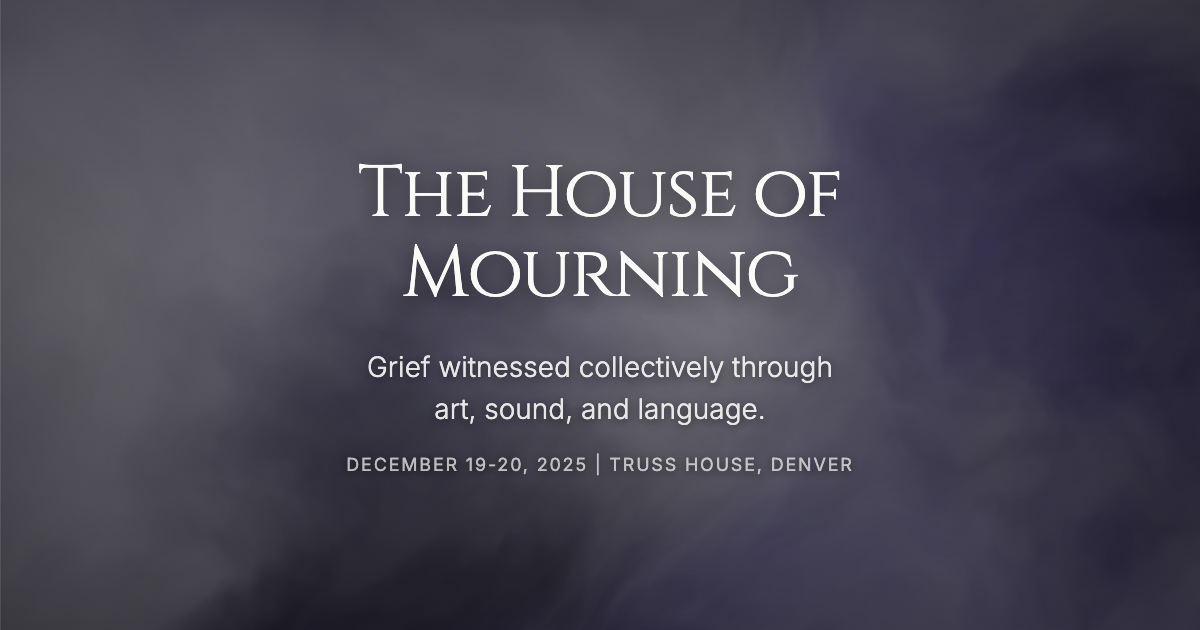
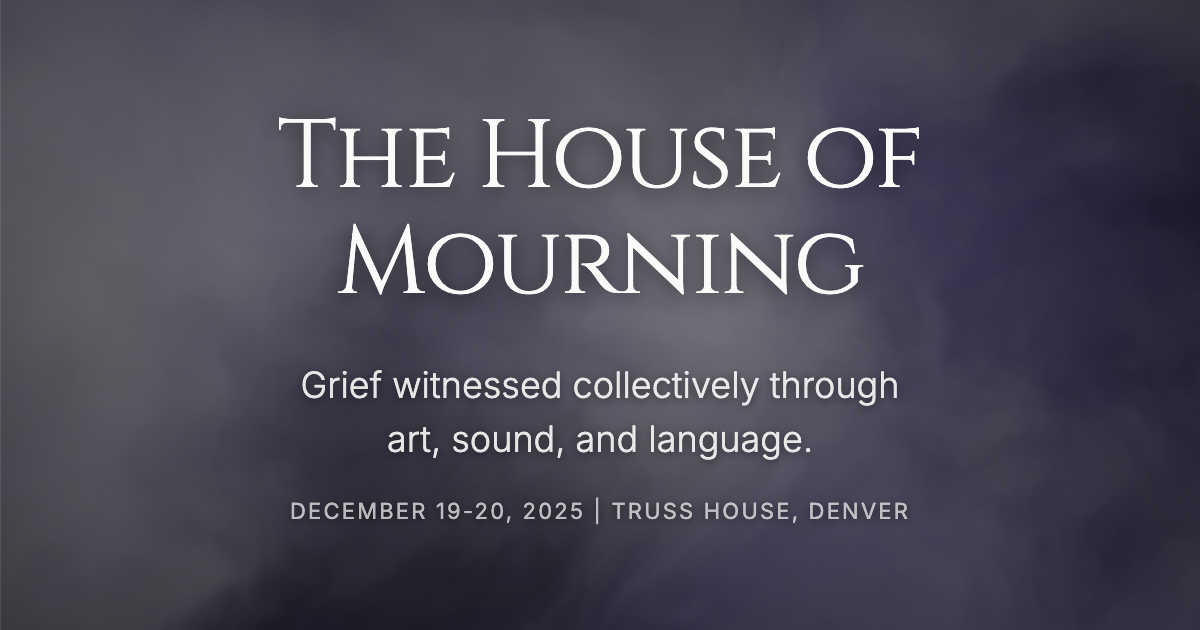
improve og-image for legibility

diff --git a/og-image-generator.html b/og-image-generator.html
@@ -70,26 +70,26 @@
         
         h1 {
             font-family: 'Cinzel', serif;
-            font-size: 72px;
+            font-size: 96px;
             font-weight: 400;
             color: #fafaf9;
             letter-spacing: -0.02em;
             line-height: 1.1;
-            margin-bottom: 32px;
+            margin-bottom: 40px;
             text-shadow: 0 4px 20px rgba(0, 0, 0, 0.5);
         }
         
         .tagline {
-            font-size: 28px;
+            font-size: 36px;
             font-weight: 300;
             color: rgba(250, 249, 248, 0.9);
             line-height: 1.5;
-            margin-bottom: 24px;
+            margin-bottom: 32px;
             text-shadow: 0 2px 10px rgba(0, 0, 0, 0.5);
         }
         
         .details {
-            font-size: 18px;
+            font-size: 22px;
             font-weight: 400;
             color: rgba(250, 249, 248, 0.7);
             letter-spacing: 0.1em;
